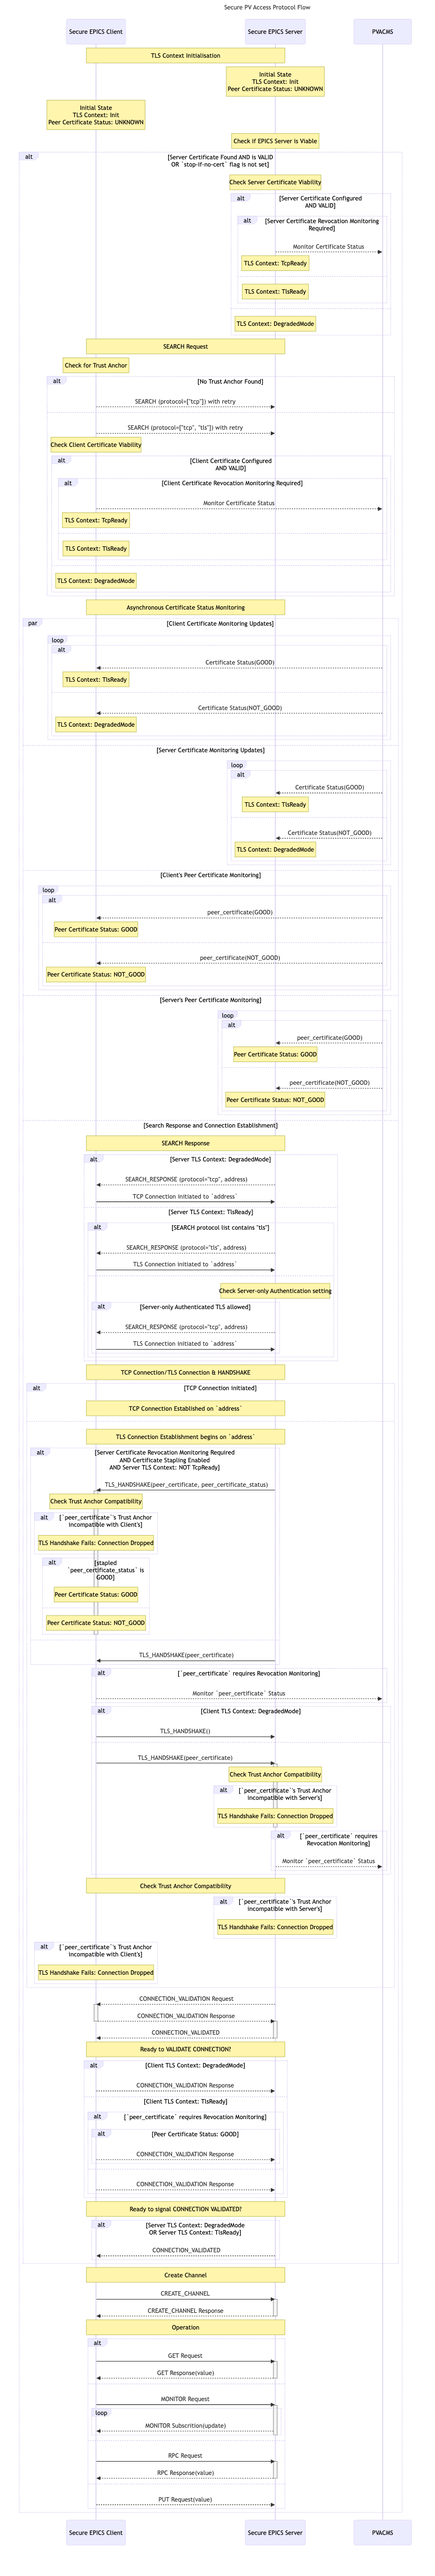
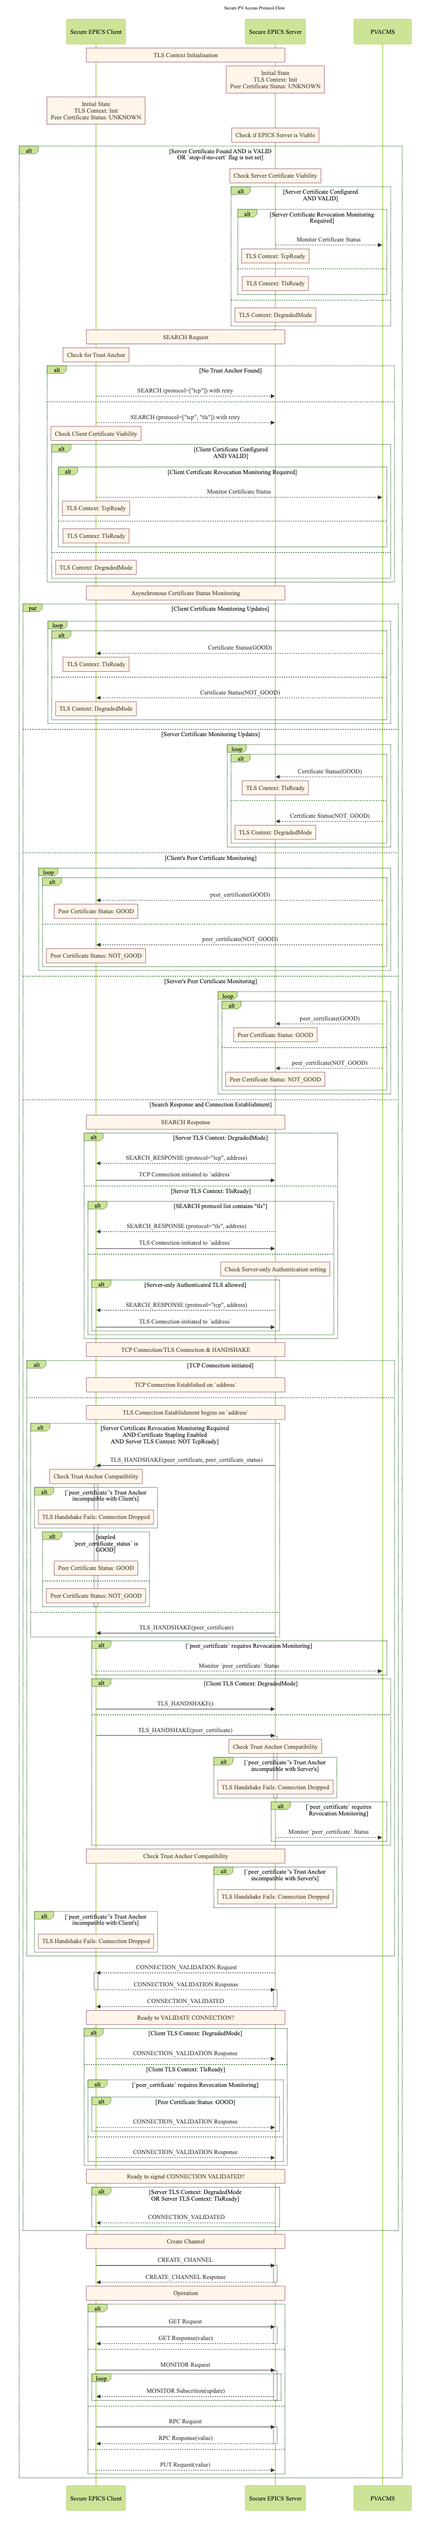
"Enhance sequence diagrams with theming, notes, and detailed state descriptions"

diff --git a/documentation/spva.rst b/documentation/spva.rst
@@ -280,12 +280,12 @@ After the TLS handshake:
 State Machines
 ^^^^^^^^^^^^^^
 
-*TLS Context State Machine:*
+*Client TLS Context State Machine:*
 
-Shows TLS Context state transitions
-Includes Init, DegradedMode, TcpReady, and TlsReady states
-Shows nested states for connection acceptance behavior
-Demonstrates transitions based on certificate status
+- Init
+- DegradedMode
+- TcpReady
+- TlsReady
 
 The state transitions based on:
 
